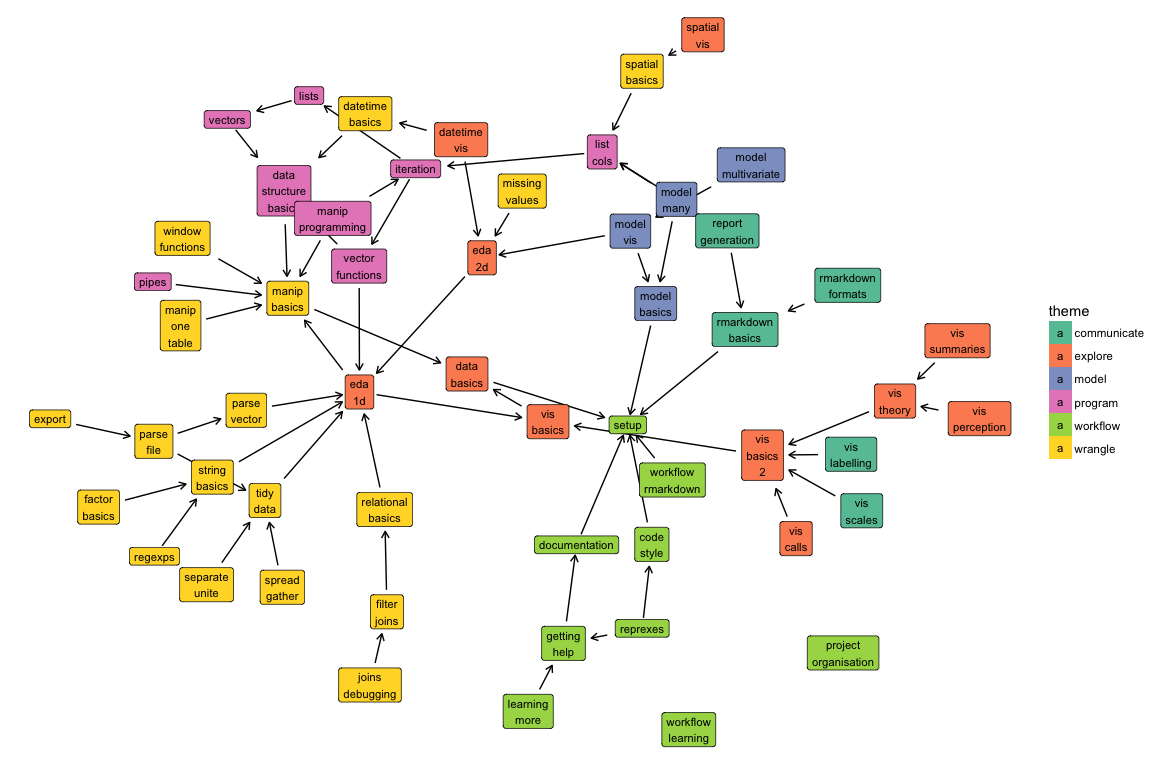
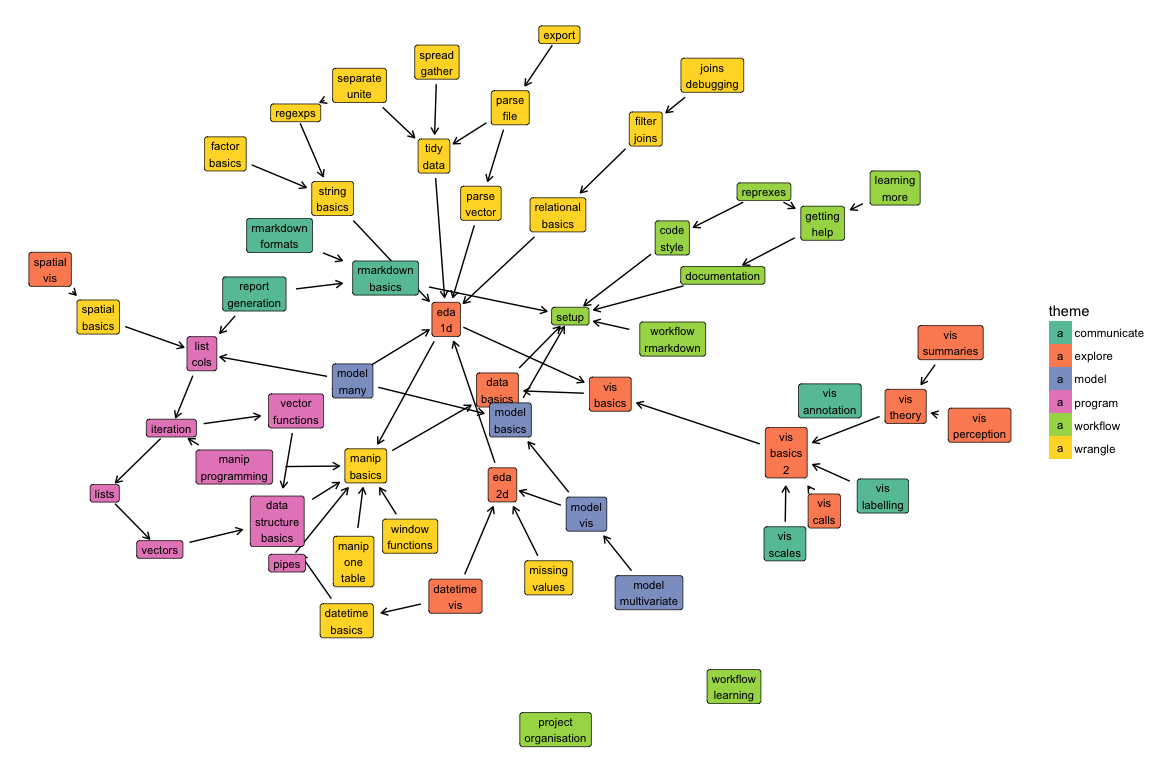
Tweaking for week 4 (and a bit beyond)

diff --git a/storyboard.md b/storyboard.md
@@ -321,11 +321,11 @@
 |r4ds-14.6                             |Other uses of regular expressions                 |                                                                                   |                                                                             |                                                                                       |                                                                                 |                                                                               |                                                                                 |                                                                                       |                                                                                     |       |                                                                                     |
 |r4ds-14.7                             |stringi                                           |                                                                                   |                                                                             |                                                                                       |                                                                                 |                                                                               |                                                                                 |                                                                                       |                                                                                     |       |                                                                                     |
 |r4ds-15                               |Factors                                           |                                                                                   |                                                                             |                                                                                       |                                                                                 |                                                                               |                                                                                 |                                                                                       |                                                                                     |       |                                                                                     |
-|r4ds-15.1                             |Introduction                                      |                                                                                   |                                                                             |                                                                                       |[factor-basics](https://dcl-2017-01.github.io/curriculum/factor-basics.html)     |                                                                               |                                                                                 |                                                                                       |                                                                                     |       |                                                                                     |
+|r4ds-15.1                             |Introduction                                      |                                                                                   |                                                                             |                                                                                       |                                                                                 |[factor-basics](https://dcl-2017-01.github.io/curriculum/factor-basics.html)   |                                                                                 |                                                                                       |                                                                                     |       |                                                                                     |
 |r4ds-15.2                             |Creating factors                                  |                                                                                   |                                                                             |                                                                                       |                                                                                 |                                                                               |                                                                                 |                                                                                       |                                                                                     |       |                                                                                     |
 |r4ds-15.3                             |General Social Survey                             |                                                                                   |                                                                             |                                                                                       |                                                                                 |                                                                               |                                                                                 |                                                                                       |                                                                                     |       |                                                                                     |
-|r4ds-15.4                             |Modifying factor order                            |                                                                                   |                                                                             |                                                                                       |[factor-basics](https://dcl-2017-01.github.io/curriculum/factor-basics.html)     |                                                                               |                                                                                 |                                                                                       |                                                                                     |       |                                                                                     |
-|r4ds-15.5                             |Modifying factor levels                           |                                                                                   |                                                                             |                                                                                       |[factor-basics](https://dcl-2017-01.github.io/curriculum/factor-basics.html)     |                                                                               |                                                                                 |                                                                                       |                                                                                     |       |                                                                                     |
+|r4ds-15.4                             |Modifying factor order                            |                                                                                   |                                                                             |                                                                                       |                                                                                 |[factor-basics](https://dcl-2017-01.github.io/curriculum/factor-basics.html)   |                                                                                 |                                                                                       |                                                                                     |       |                                                                                     |
+|r4ds-15.5                             |Modifying factor levels                           |                                                                                   |                                                                             |                                                                                       |                                                                                 |[factor-basics](https://dcl-2017-01.github.io/curriculum/factor-basics.html)   |                                                                                 |                                                                                       |                                                                                     |       |                                                                                     |
 |r4ds-16                               |Dates and times                                   |                                                                                   |                                                                             |                                                                                       |                                                                                 |                                                                               |                                                                                 |                                                                                       |                                                                                     |       |                                                                                     |
 |r4ds-16.1                             |Introduction                                      |                                                                                   |                                                                             |                                                                                       |[datetime-basics](https://dcl-2017-01.github.io/curriculum/datetime-basics.html) |                                                                               |                                                                                 |                                                                                       |                                                                                     |       |                                                                                     |
 |r4ds-16.2                             |Creating date/times                               |                                                                                   |                                                                             |                                                                                       |[datetime-basics](https://dcl-2017-01.github.io/curriculum/datetime-basics.html) |                                                                               |                                                                                 |                                                                                       |                                                                                     |       |                                                                                     |
@@ -369,7 +369,7 @@
 |r4ds-22.1                             |Hypothesis generation vs. hypothesis confirmation |                                                                                   |                                                                             |                                                                                       |                                                                                 |                                                                               |                                                                                 |                                                                                       |                                                                                     |       |                                                                                     |
 |r4ds-23                               |Model basics                                      |                                                                                   |                                                                             |                                                                                       |                                                                                 |                                                                               |                                                                                 |                                                                                       |                                                                                     |       |                                                                                     |
 |r4ds-23.1                             |Introduction                                      |                                                                                   |                                                                             |                                                                                       |                                                                                 |                                                                               |                                                                                 |                                                                                       |                                                                                     |       |                                                                                     |
-|r4ds-23.2                             |A simple model                                    |                                                                                   |                                                                             |                                                                                       |                                                                                 |                                                                               |                                                                                 |[model-basics](https://dcl-2017-01.github.io/curriculum/model-basics.html)             |                                                                                     |       |                                                                                     |
+|r4ds-23.2                             |A simple model                                    |                                                                                   |                                                                             |                                                                                       |                                                                                 |[model-basics](https://dcl-2017-01.github.io/curriculum/model-basics.html)     |                                                                                 |                                                                                       |                                                                                     |       |                                                                                     |
 |r4ds-23.3                             |Visualising models                                |                                                                                   |                                                                             |                                                                                       |                                                                                 |                                                                               |                                                                                 |[model-vis](https://dcl-2017-01.github.io/curriculum/model-vis.html)                   |                                                                                     |       |                                                                                     |
 |r4ds-23.4                             |Formulas and model families                       |                                                                                   |                                                                             |                                                                                       |                                                                                 |                                                                               |                                                                                 |[model-multivariate](https://dcl-2017-01.github.io/curriculum/model-multivariate.html) |                                                                                     |       |                                                                                     |
 |r4ds-23.5                             |Missing values                                    |                                                                                   |                                                                             |                                                                                       |                                                                                 |                                                                               |                                                                                 |                                                                                       |                                                                                     |       |                                                                                     |
@@ -398,7 +398,7 @@
 |r4ds-28                               |Graphics for communication                        |                                                                                   |                                                                             |                                                                                       |                                                                                 |                                                                               |                                                                                 |                                                                                       |                                                                                     |       |                                                                                     |
 |r4ds-28.1                             |Introduction                                      |                                                                                   |                                                                             |                                                                                       |                                                                                 |                                                                               |                                                                                 |                                                                                       |                                                                                     |       |                                                                                     |
 |r4ds-28.2                             |Label                                             |                                                                                   |[vis-labelling](https://dcl-2017-01.github.io/curriculum/vis-labelling.html) |                                                                                       |                                                                                 |                                                                               |                                                                                 |                                                                                       |                                                                                     |       |                                                                                     |
-|r4ds-28.3                             |Annotations                                       |                                                                                   |                                                                             |                                                                                       |                                                                                 |                                                                               |                                                                                 |                                                                                       |                                                                                     |       |                                                                                     |
+|r4ds-28.3                             |Annotations                                       |                                                                                   |                                                                             |                                                                                       |[vis-annotation](https://dcl-2017-01.github.io/curriculum/vis-annotation.html)   |                                                                               |                                                                                 |                                                                                       |                                                                                     |       |                                                                                     |
 |r4ds-28.4                             |Scales                                            |                                                                                   |                                                                             |[vis-scales](https://dcl-2017-01.github.io/curriculum/vis-scales.html)                 |                                                                                 |                                                                               |                                                                                 |                                                                                       |                                                                                     |       |                                                                                     |
 |r4ds-28.5                             |Zooming                                           |                                                                                   |                                                                             |                                                                                       |                                                                                 |                                                                               |                                                                                 |                                                                                       |                                                                                     |       |                                                                                     |
 |r4ds-28.6                             |Themes                                            |                                                                                   |                                                                             |                                                                                       |                                                                                 |                                                                               |                                                                                 |                                                                                       |                                                                                     |       |                                                                                     |

diff --git a/docs/upcoming.md b/docs/upcoming.md
@@ -76,7 +76,7 @@ title: Theme index
 <tr>
 <td></td>
   <td colspan="4"></td>
-  <td colspan="3"><a class="communicate" href="vis-labelling.html">Labelling your graphics</a></td>
+  <td colspan="3"><a class="communicate" href="vis-labelling.html">Labels</a></td>
   <td colspan="1"></td>
 </tr>
 <tr>
@@ -164,6 +164,12 @@ title: Theme index
 <tbody>
 <tr>
 <td>4</td>
+  <td colspan="2"></td>
+  <td colspan="3"><a class="program" href="iteration.html">Iteration</a></td>
+  <td colspan="3"></td>
+</tr>
+<tr>
+<td></td>
   <td colspan="1"></td>
   <td colspan="3"><a class="wrangle" href="datetime-basics.html">Date/time basics</a></td>
   <td colspan="4"></td>
@@ -181,9 +187,9 @@ title: Theme index
 </tr>
 <tr>
 <td></td>
-  <td colspan="1"></td>
-  <td colspan="3"><a class="wrangle" href="factor-basics.html">Factor basics</a></td>
   <td colspan="4"></td>
+  <td colspan="3"><a class="communicate" href="vis-annotation.html">Annotations</a></td>
+  <td colspan="1"></td>
 </tr>
 <tr>
 <td></td>
@@ -197,16 +203,16 @@ title: Theme index
   <td colspan="3"><a class="wrangle" href="parse-file.html">Parsing files</a></td>
   <td colspan="4"></td>
 </tr>
-<tr>
-<td></td>
-  <td colspan="2"></td>
-  <td colspan="3"><a class="program" href="iteration.html">Iteration</a></td>
-  <td colspan="3"></td>
-</tr>
 </tbody>
 <tbody>
 <tr>
 <td>5</td>
+  <td colspan="1"></td>
+  <td colspan="3"><a class="wrangle" href="factor-basics.html">Factor basics</a></td>
+  <td colspan="4"></td>
+</tr>
+<tr>
+<td></td>
   <td colspan="1"></td>
   <td colspan="3"><a class="wrangle" href="regexps.html">Regular expressions</a></td>
   <td colspan="4"></td>
@@ -221,6 +227,12 @@ title: Theme index
 <td></td>
   <td colspan="3"><a class="explore" href="vis-perception.html">Perception</a></td>
   <td colspan="5"></td>
+</tr>
+<tr>
+<td></td>
+  <td colspan="3"></td>
+  <td colspan="3"><a class="model" href="model-basics.html">Model intuition</a></td>
+  <td colspan="2"></td>
 </tr>
 </tbody>
 <tbody>
@@ -252,12 +264,6 @@ title: Theme index
 <tbody>
 <tr>
 <td>7</td>
-  <td colspan="3"></td>
-  <td colspan="3"><a class="model" href="model-basics.html">Model intuition</a></td>
-  <td colspan="2"></td>
-</tr>
-<tr>
-<td></td>
   <td colspan="3"></td>
   <td colspan="3"><a class="model" href="model-vis.html">Visualising models</a></td>
   <td colspan="2"></td>

diff --git a/docs/vis-basics-2.md b/docs/vis-basics-2.md
@@ -6,7 +6,7 @@ title: Visualisation basics (2)
 
 # Visualisation basics (2) <small class='explore'>[explore]</small>
 <small>(Builds on: [Visualisation basics (1)](vis-basics.md))</small>  
-<small>(Leads to: [ggplot2 calls](vis-calls.md), [Labelling your graphics](vis-labelling.md), [Scales](vis-scales.md), [The grammar of graphics](vis-theory.md))</small>
+<small>(Leads to: [Annotations](vis-annotation.md), [ggplot2 calls](vis-calls.md), [Labels](vis-labelling.md), [Scales](vis-scales.md), [The grammar of graphics](vis-theory.md))</small>
 
 Now it's time to learn some more of the components that make up ggplot2.
 

diff --git a/docs/vis-annotation.md b/docs/vis-annotation.md
@@ -1,0 +1,18 @@
+---
+title: Annotations
+---
+
+<!-- Generated automatically from vis-annotation.yml. Do not edit by hand -->
+
+# Annotations <small class='communicate'>[communicate]</small>
+<small>(Builds on: [Visualisation basics (2)](vis-basics-2.md))</small>
+
+Visualising strings can be challenging because they almost invariables
+seem to end up plotted on top of each other. This section gives you
+helpful tools for drawing strings on your plots.
+
+## Readings
+
+  * [Annotations](http://r4ds.had.co.nz/graphics-for-communication.html#annotations) [r4ds-28.3]
+
+

diff --git a/docs/vis-labelling.md b/docs/vis-labelling.md
@@ -1,10 +1,10 @@
 ---
-title: Labelling your graphics
+title: Labels
 ---
 
 <!-- Generated automatically from vis-labelling.yml. Do not edit by hand -->
 
-# Labelling your graphics <small class='communicate'>[communicate]</small>
+# Labels <small class='communicate'>[communicate]</small>
 <small>(Builds on: [Visualisation basics (2)](vis-basics-2.md))</small>
 
 Good labels make visualisations much easier to understand for newcomers to

diff --git a/docs/parse-vector.md b/docs/parse-vector.md
@@ -45,8 +45,8 @@ tibble(
 )
 ```
 
-(The `L` suffix indicates that we have the integer 4, not the real nubmer
-4. You'll learn more about that later.)
+(The `L` suffix indicates that we have the integer 4, not the real
+number 4. You'll learn more about that later.)
 
 You'll learn import starting with step 2, because you can practice parsing
 character vectors with toy data in R. This will be helpful later when you

diff --git a/docs/index.md b/docs/index.md
@@ -76,7 +76,7 @@ title: Theme index
 <tr>
 <td></td>
   <td colspan="4"></td>
-  <td colspan="3"><a class="communicate" href="vis-labelling.html">Labelling your graphics</a></td>
+  <td colspan="3"><a class="communicate" href="vis-labelling.html">Labels</a></td>
   <td colspan="1"></td>
 </tr>
 <tr>
